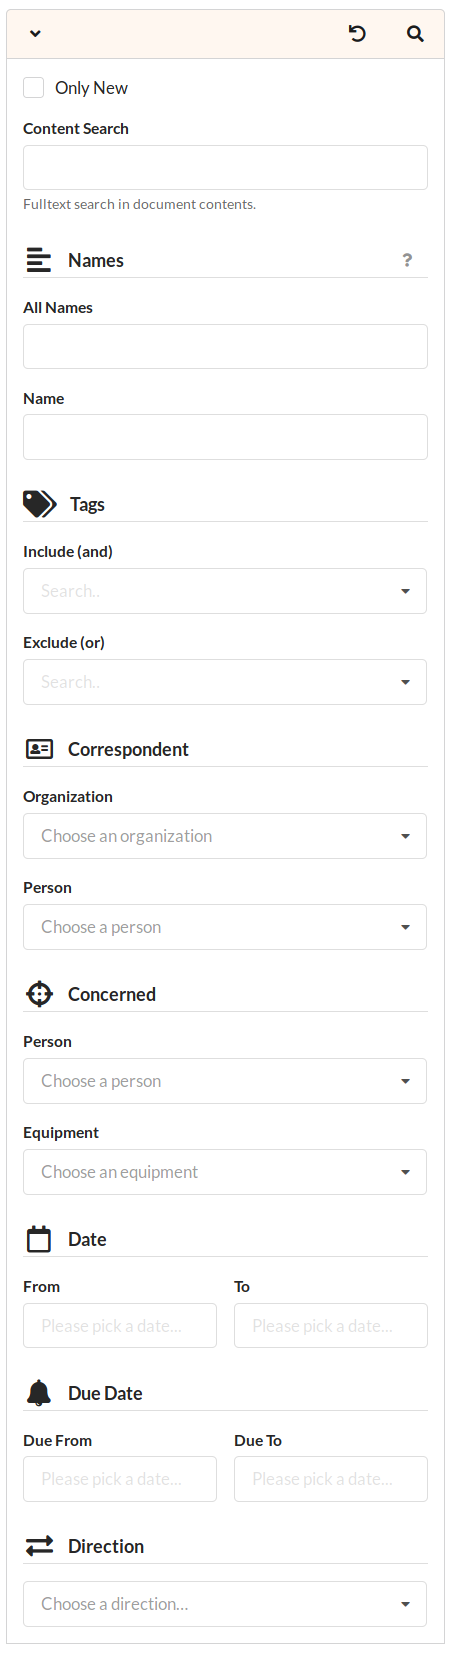
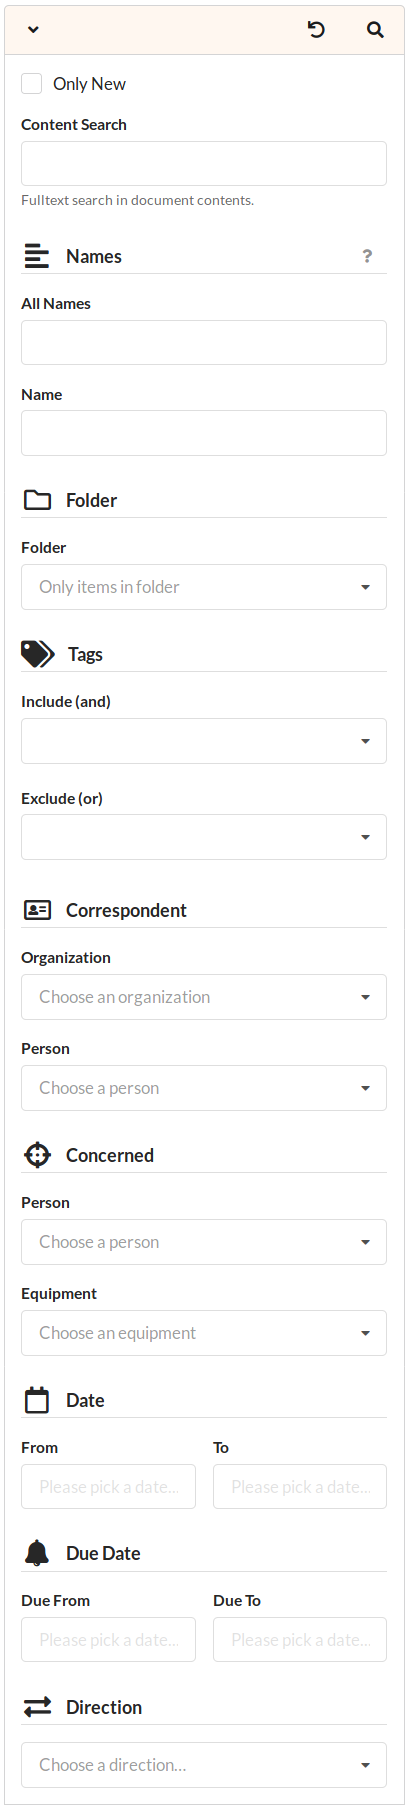
Update documentation for folders

diff --git a/modules/microsite/docs/doc/metadata.md b/modules/microsite/docs/doc/metadata.md
@@ -1,6 +1,6 @@
 ---
 layout: docs
-title: Adding Meta Data
+title: Meta Data
 permalink: doc/metadata
 ---
 
@@ -12,13 +12,13 @@ Docspell processes each uploaded file. Processing involves extracting
 archives, extracting text, anlyzing the extracted text and converting
 the file into a pdf. Text is analyzed to find metadata that can be set
 automatically. Docspell compares the extracted text against a set of
-known meta data. The *Meta Data* page allows to manage this meta data.
-You can create the following:
+known meta data. The *Meta Data* page allows to manage this meta data:
 
 - Tags
 - Organizations
 - Persons
 - Equipments
+- Folders
 
 
 ### Tags
@@ -79,6 +79,31 @@ about. Examples are: bills or insurances for *cars*, contracts for
 
 Equipments don't have contact information, so the only property that
 is used to find matches during document processing is its name.
+
+
+### Folders
+
+Folders provide a way to divide all documents into disjoint subsets.
+Unlike with tags, an item can have at most one folder or none. A
+folder has an owner – the user who created the folder. Additionally,
+it can have members: users of the collective that the owner can assign
+to a folder.
+
+When searching for items, the results are restricted to items that
+have either no folder assigned or a folder where the current user is
+owner or member. It can be used to control visibility when searching.
+However: there are no hard access checks. For example, if the item id
+is known, any user of the collective can see it and modify its meta
+data.
+
+One use case is, that you can hide items from other users, like bills
+for birthday presents. In this case it is very unlikely that someone
+can guess the item-id.
+
+While folders are *not* taken into account when processing documents,
+they can be specified with the upload request or a [source
+url](uploading#anonymous-upload) to have them automatically set when
+they arrive.
 
 
 ## Document Language

diff --git a/modules/microsite/docs/doc/uploading.md b/modules/microsite/docs/doc/uploading.md
@@ -49,10 +49,20 @@ your username is not visible.
 Example screenshot:
 
 <div class="thumbnail">
-  <img src="../img/sources-form.jpg">
+  <img src="../img/sources-form.png">
 </div>
 
-This example shows a source with name "test". It defines two urls:
+This example shows a source with name "test". Besides a description
+and a name that is only used for displaying purposes, a priority and a
+[folder](metadata#folders) can be specified.
+
+The priority is used for the processing jobs that are submitted when
+files are uploaded via this endpoint.
+
+The folder is used to place all items, that result from uploads to
+this endpoint, into this folder.
+
+The source endpoint defines two urls:
 
 - `/app/upload/<id>`
 - `/api/v1/open/upload/item/<id>`

diff --git a/modules/microsite/docs/doc/scanmailbox.md b/modules/microsite/docs/doc/scanmailbox.md
@@ -69,6 +69,11 @@ that belongs to a “concerning” person in your address book, then it is
 set to "outgoing". Otherwise it is set to "incoming". To support this,
 you need to add your own e-mail address(es) to your address book.
 
+The *Item Folder* setting is used to put all items that are created
+from mails into the specified [folder](metadata#folders). If you
+define a folder here, where you are not a member, you won't find
+resulting items.
+
 The last field is the *Schedule* which defines when and how often this
 task should run. The syntax is similiar to a date-time string, like
 `2019-09-15 12:32`, where each part is a pattern to also match multple

diff --git a/modules/microsite/docs/doc/finding.md b/modules/microsite/docs/doc/finding.md
@@ -86,6 +86,12 @@ same as the search in the search bar (see above).
 
 The `Name` field only searches in the name property of an item.
 
+### Folder
+
+Set a folder to only show items in that folder. If no folder is set,
+all accessible items are shown. These are all items that either have
+no folder set, or a folder where the current user is member.
+
 ### Tags
 
 Specify a list of tags that the items must have. When adding tags to

diff --git a/modules/microsite/docs/doc/curate.md b/modules/microsite/docs/doc/curate.md
@@ -1,6 +1,6 @@
 ---
 layout: docs
-title: Curate Metadata
+title: Curate Items
 permalink: doc/curate
 ---
 
